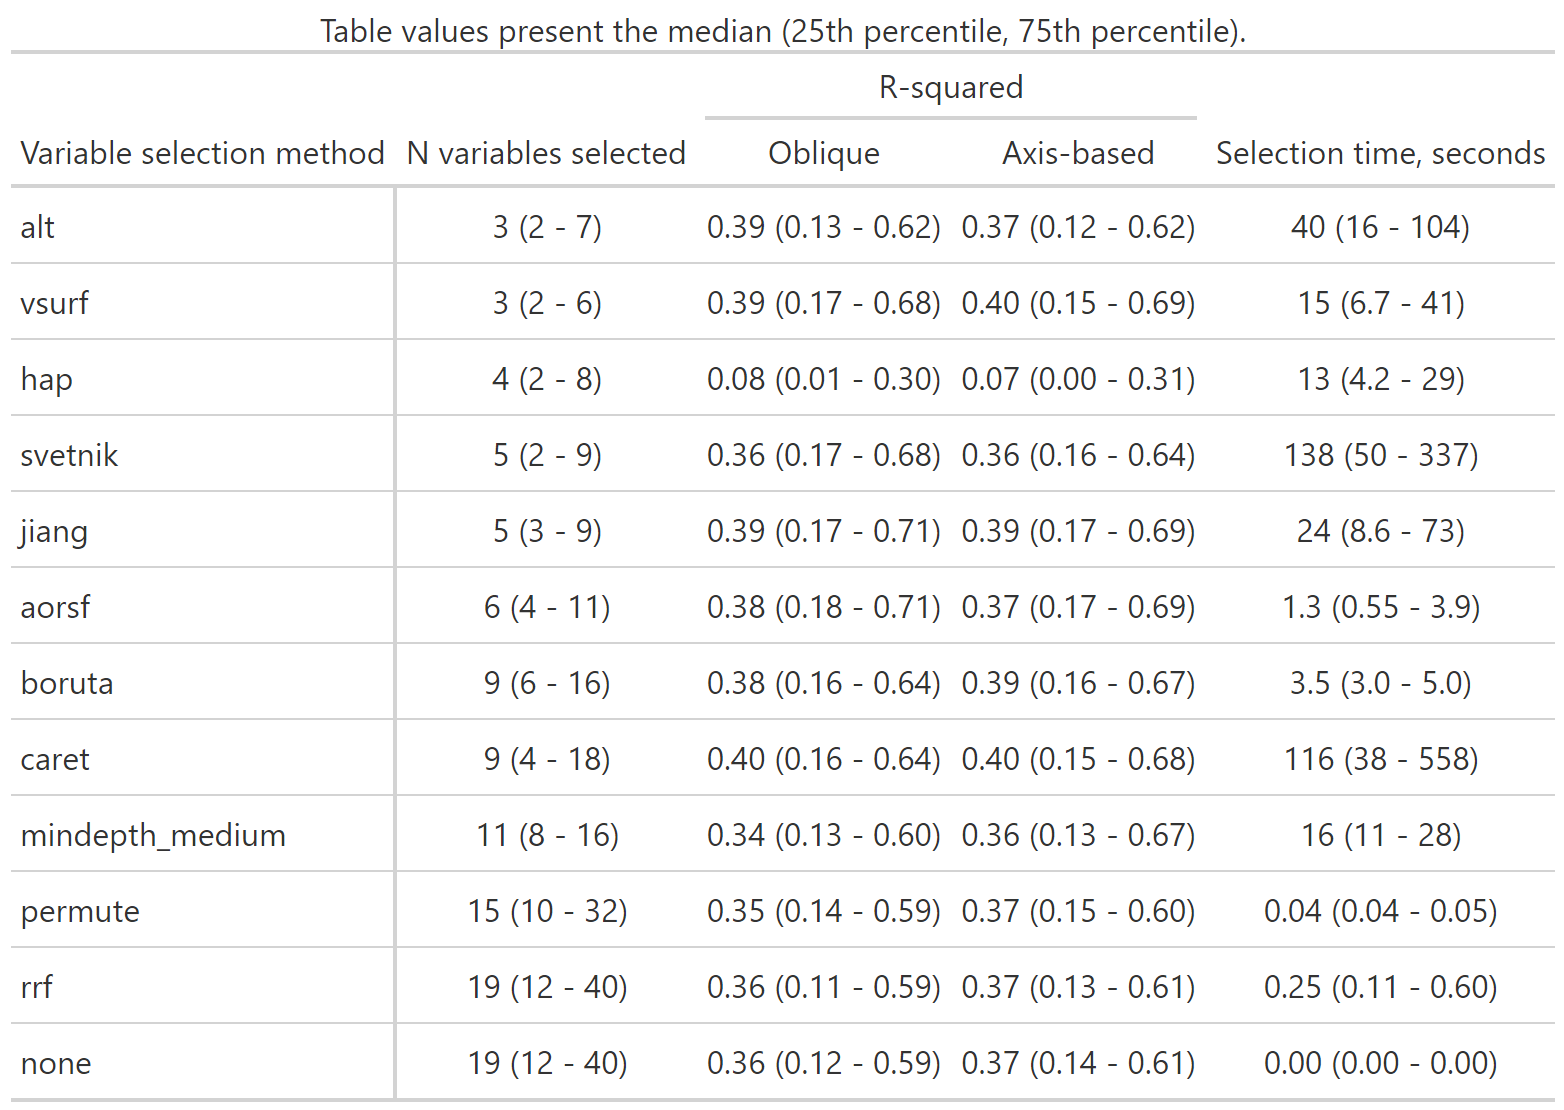
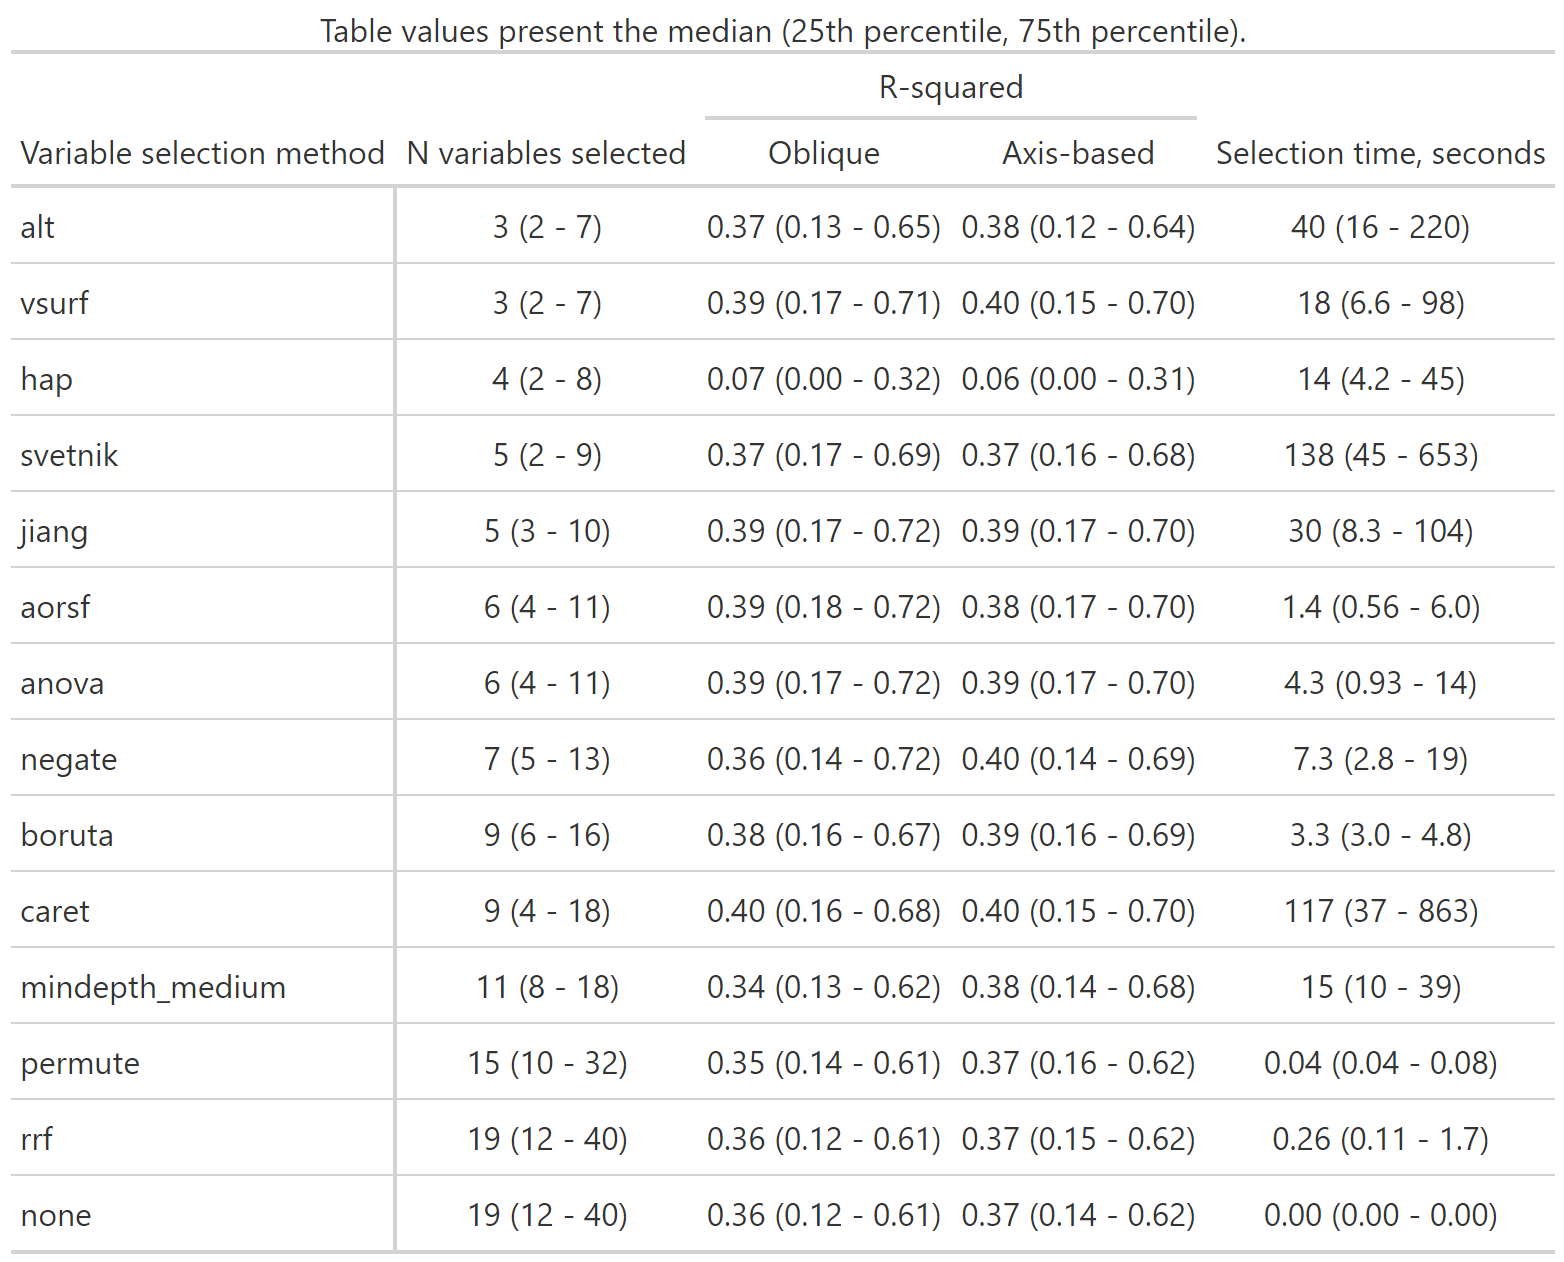
updated results

diff --git a/README.md b/README.md
@@ -42,9 +42,9 @@ Similar results, but using mean and standard error
 1.  Variable selection method `jiang` has consistently high prediction
     accuracy but scales poorly to large datasets in terms of
     computational efficiency. E.g., the max time that this method
-    required was 13 minutes, 16 seconds
+    required was 44 minutes, 14 seconds
 
 2.  Variable selection method `aorsf` has very high prediction accuracy
     when the downstream model is an oblique random forest, and does not
     become computationally intractable with larger data. E.g., the max
-    time this method required was 1 minute, 0 seconds
+    time this method required was 2 minutes, 38 seconds
